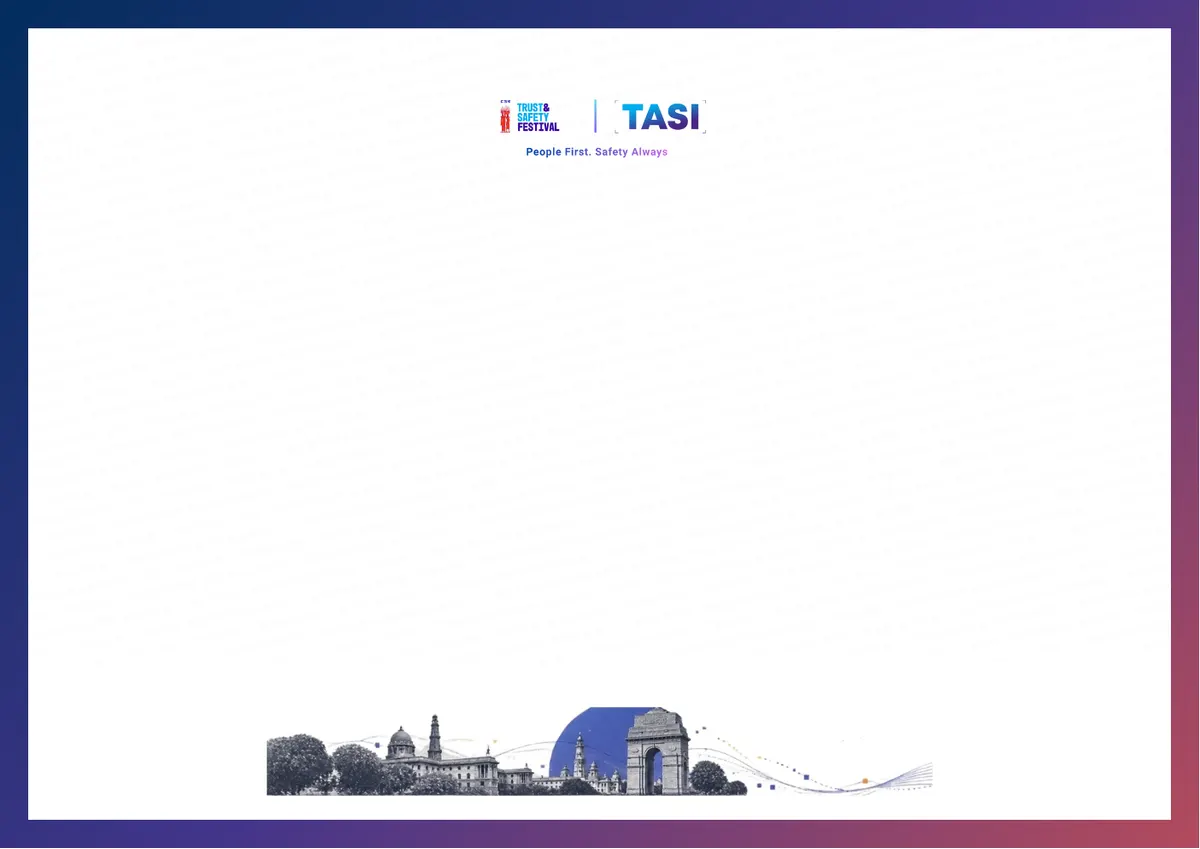
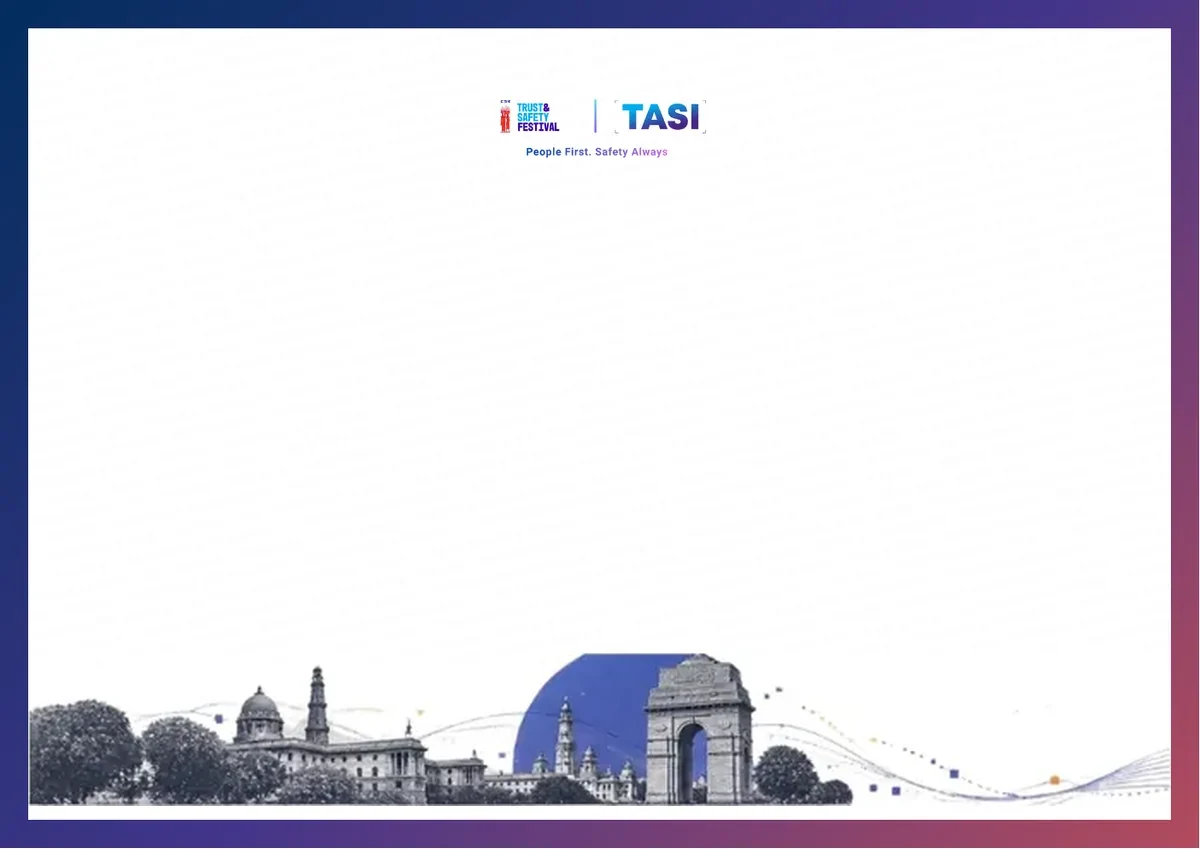
Certificates: smooth scrolling on phones, session from emailed link, full-width skyline (#143)
* Keep the hero particle canvas at banner height on certificate pages

The certificate pages put the whole claim card inside the branded hero,
so the animated particle canvas grew to several screens tall. Its
particle count and link checks scale with that area and it redraws
every frame, which made scrolling stutter on phones (median frame
200 ms vs 33 ms on a normal page under 4x CPU throttling).

BrandedPageHero takes an opt-in compactParticles prop that caps the
particle layer at 360px and fades it out; the certificate pages use it.
Other pages are unchanged.

Claude-Session: https://claude.ai/code/session_01SoUJgBd3VWhJ93HGeCfp5E

* Open a verified certificate session straight from the emailed link

The session cookie was SameSite=Strict, so the browser left it off the
navigation from an email or chat app and a verified attendee saw the
code step until they refreshed. Lax sends it on that top-level GET and
still keeps it off cross-site POSTs; the certificate POST routes also
check the request origin and require a JSON body.

Claude-Session: https://claude.ai/code/session_01SoUJgBd3VWhJ93HGeCfp5E

* Stretch the certificate skyline to both margins

The Delhi skyline in the certificate template sat in the middle of the
panel. It is now scaled evenly (no distortion) to the full inner width
in the PDF template, the on-page preview and the share image. A small
strip stays under it for the personal microtext line, and the taller
[…]

Changed region(s): [[0.0, 0.7656, 0.9867, 0.9494]]

diff --git a/src/components/ui/branded-page-hero.jsx b/src/components/ui/branded-page-hero.jsx
@@ -6,6 +6,7 @@ export default function BrandedPageHero({
   className = '',
   backgroundLayer = null,
   particles = true,
+  compactParticles = false,
 }) {
   return (
     <section
@@ -16,11 +17,17 @@ export default function BrandedPageHero({
       <div className="pointer-events-none absolute inset-0 bg-[linear-gradient(120deg,rgba(85,8,158,0)_-7.06%,rgba(159,0,153,0)_16.19%,rgba(255,0,188,0)_39.45%,rgba(239,87,0,0.25)_85.96%,rgba(255,255,0,0.85)_109.21%)]" />
       <div className="pointer-events-none absolute -top-20 left-[-8%] h-64 w-64 rounded-full bg-[#5547ec]/45 blur-3xl" />
       <div className="pointer-events-none absolute -bottom-28 right-[-8%] h-72 w-72 rounded-full bg-[#ff2bbf]/35 blur-3xl" />
+      {/* The particle canvas redraws every frame and its particle count grows
+          with its area. Heroes that hold a whole card (certificates) pass
+          compactParticles to keep it at banner height; a canvas several
+          screens tall makes scrolling stutter on phones. */}
       {particles ? (
-        <>
+        <div
+          className={`pointer-events-none absolute inset-0 ${compactParticles ? 'max-h-[360px] [mask-image:linear-gradient(to_bottom,black_70%,transparent)]' : ''}`.trim()}
+        >
           <LightHeroParticles />
           <DarkHeroParticles />
-        </>
+        </div>
       ) : null}
       {backgroundLayer}
       <div className="relative z-10">{children}</div>

diff --git a/src/lib/certificate-access.js b/src/lib/certificate-access.js
@@ -31,6 +31,10 @@ export async function hasCertificateSession({ certificate, tokenHash }) {
   });
 }
 
+// Lax, not strict: opening the emailed link is a navigation from another
+// site, and a strict cookie is left off it, so a verified attendee was shown
+// the code step until they refreshed. Lax still keeps the cookie off
+// cross-site POSTs, and those routes also check the request origin.
 export async function startCertificateSession({ certificate, tokenHash }) {
   const store = await cookies();
   store.set(
@@ -39,7 +43,7 @@ export async function startCertificateSession({ certificate, tokenHash }) {
     {
       httpOnly: true,
       secure: process.env.NODE_ENV === 'production',
-      sameSite: 'strict',
+      sameSite: 'lax',
       path: '/',
       maxAge: Math.floor(SESSION_TTL_MS / 1000),
     }

diff --git a/src/app/certificates/[token]/page.jsx b/src/app/certificates/[token]/page.jsx
@@ -70,7 +70,7 @@ export default async function Page({ params, searchParams }) {
     <>
       <HomeNavbar />
       <main className="bg-white text-stone-900 dark:bg-stone-950 dark:text-stone-100">
-        <BrandedPageHero className="py-14 md:py-20">
+        <BrandedPageHero className="py-14 md:py-20" compactParticles>
           <div className="mx-auto grid w-full max-w-6xl items-start gap-10 px-4 md:px-8 lg:grid-cols-[0.8fr_1.2fr]">
             <div className="text-center lg:pt-6 lg:text-left">
               <p className="text-xs font-semibold uppercase tracking-[0.16em] text-white/75">

diff --git a/src/app/certificates/page.jsx b/src/app/certificates/page.jsx
@@ -16,7 +16,7 @@ export default function Page() {
     <>
       <HomeNavbar />
       <main className="bg-white text-stone-900 dark:bg-stone-950 dark:text-stone-100">
-        <BrandedPageHero className="py-16 md:py-24">
+        <BrandedPageHero className="py-16 md:py-24" compactParticles>
           <div className="mx-auto grid w-full max-w-6xl items-center gap-12 px-4 md:px-8 lg:grid-cols-[1fr_0.95fr]">
             <div className="text-center lg:text-left">
               <p className="text-xs font-black uppercase tracking-[0.18em] text-white/75">

diff --git a/src/app/certificates/verify/[code]/page.jsx b/src/app/certificates/verify/[code]/page.jsx
@@ -80,7 +80,7 @@ export default async function Page({ params }) {
     <>
       <HomeNavbar />
       <main className="bg-white text-stone-900 dark:bg-stone-950 dark:text-stone-100">
-        <BrandedPageHero className="py-14 md:py-20">
+        <BrandedPageHero className="py-14 md:py-20" compactParticles>
           <div className="mx-auto w-full max-w-5xl px-4 md:px-8">
             <p className="text-center text-xs font-black uppercase tracking-[0.18em] text-white/75">
               Trust &amp; Safety India Festival · Certificate verification

diff --git a/src/app/certificates/verify/page.jsx b/src/app/certificates/verify/page.jsx
@@ -26,7 +26,7 @@ export default function Page() {
     <>
       <HomeNavbar />
       <main className="bg-white text-stone-900 dark:bg-stone-950 dark:text-stone-100">
-        <BrandedPageHero className="py-16 md:py-24">
+        <BrandedPageHero className="py-16 md:py-24" compactParticles>
           <div className="mx-auto w-full max-w-xl px-4 text-center md:px-8">
             <p className="text-xs font-black uppercase tracking-[0.18em] text-white/75">
               TASI 2026 · Certificates
